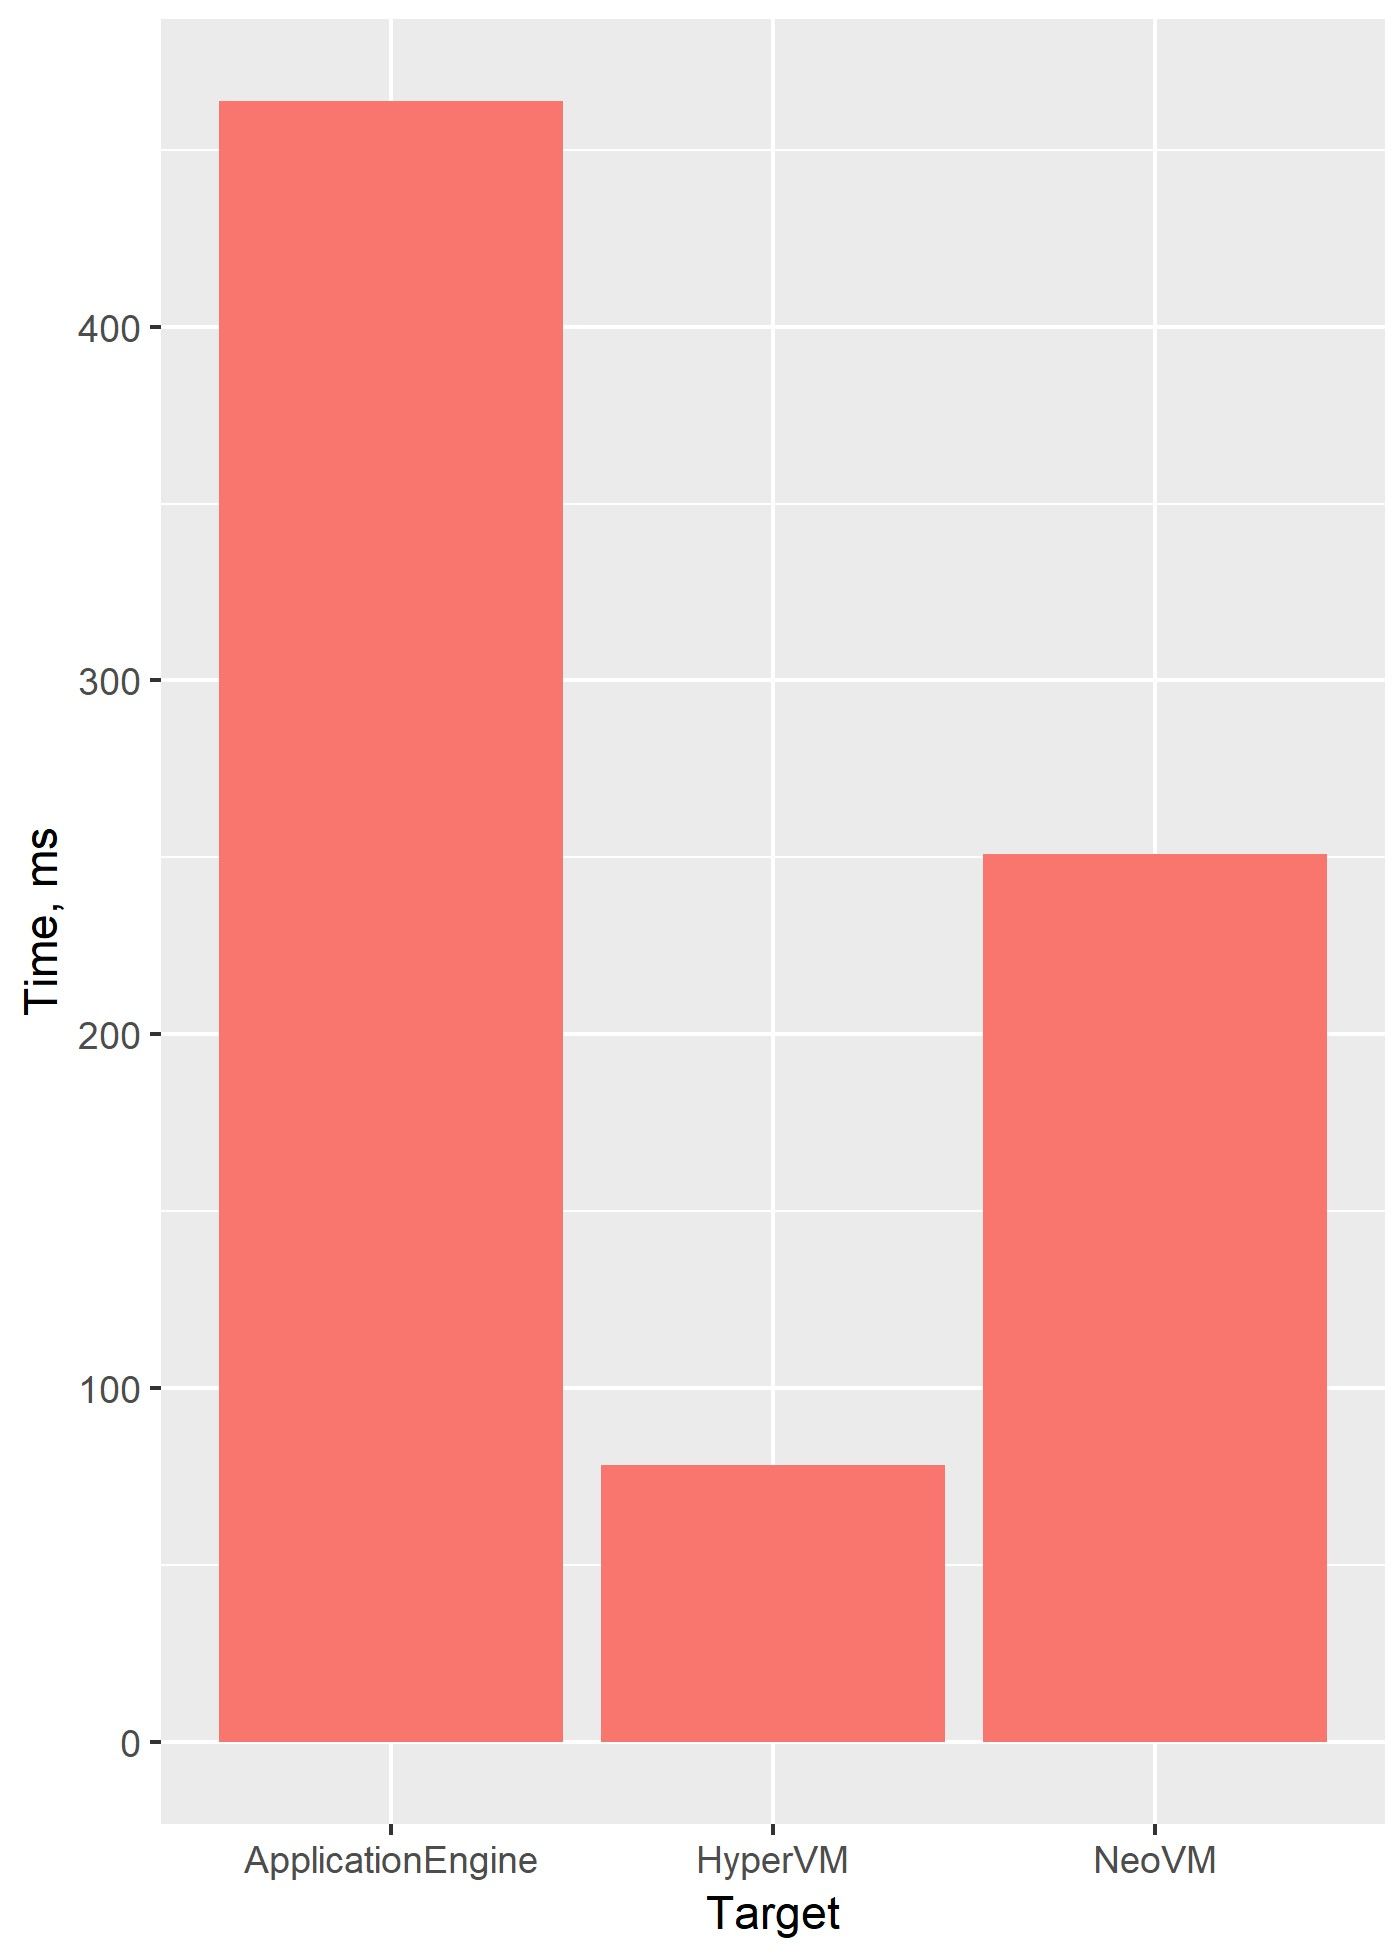
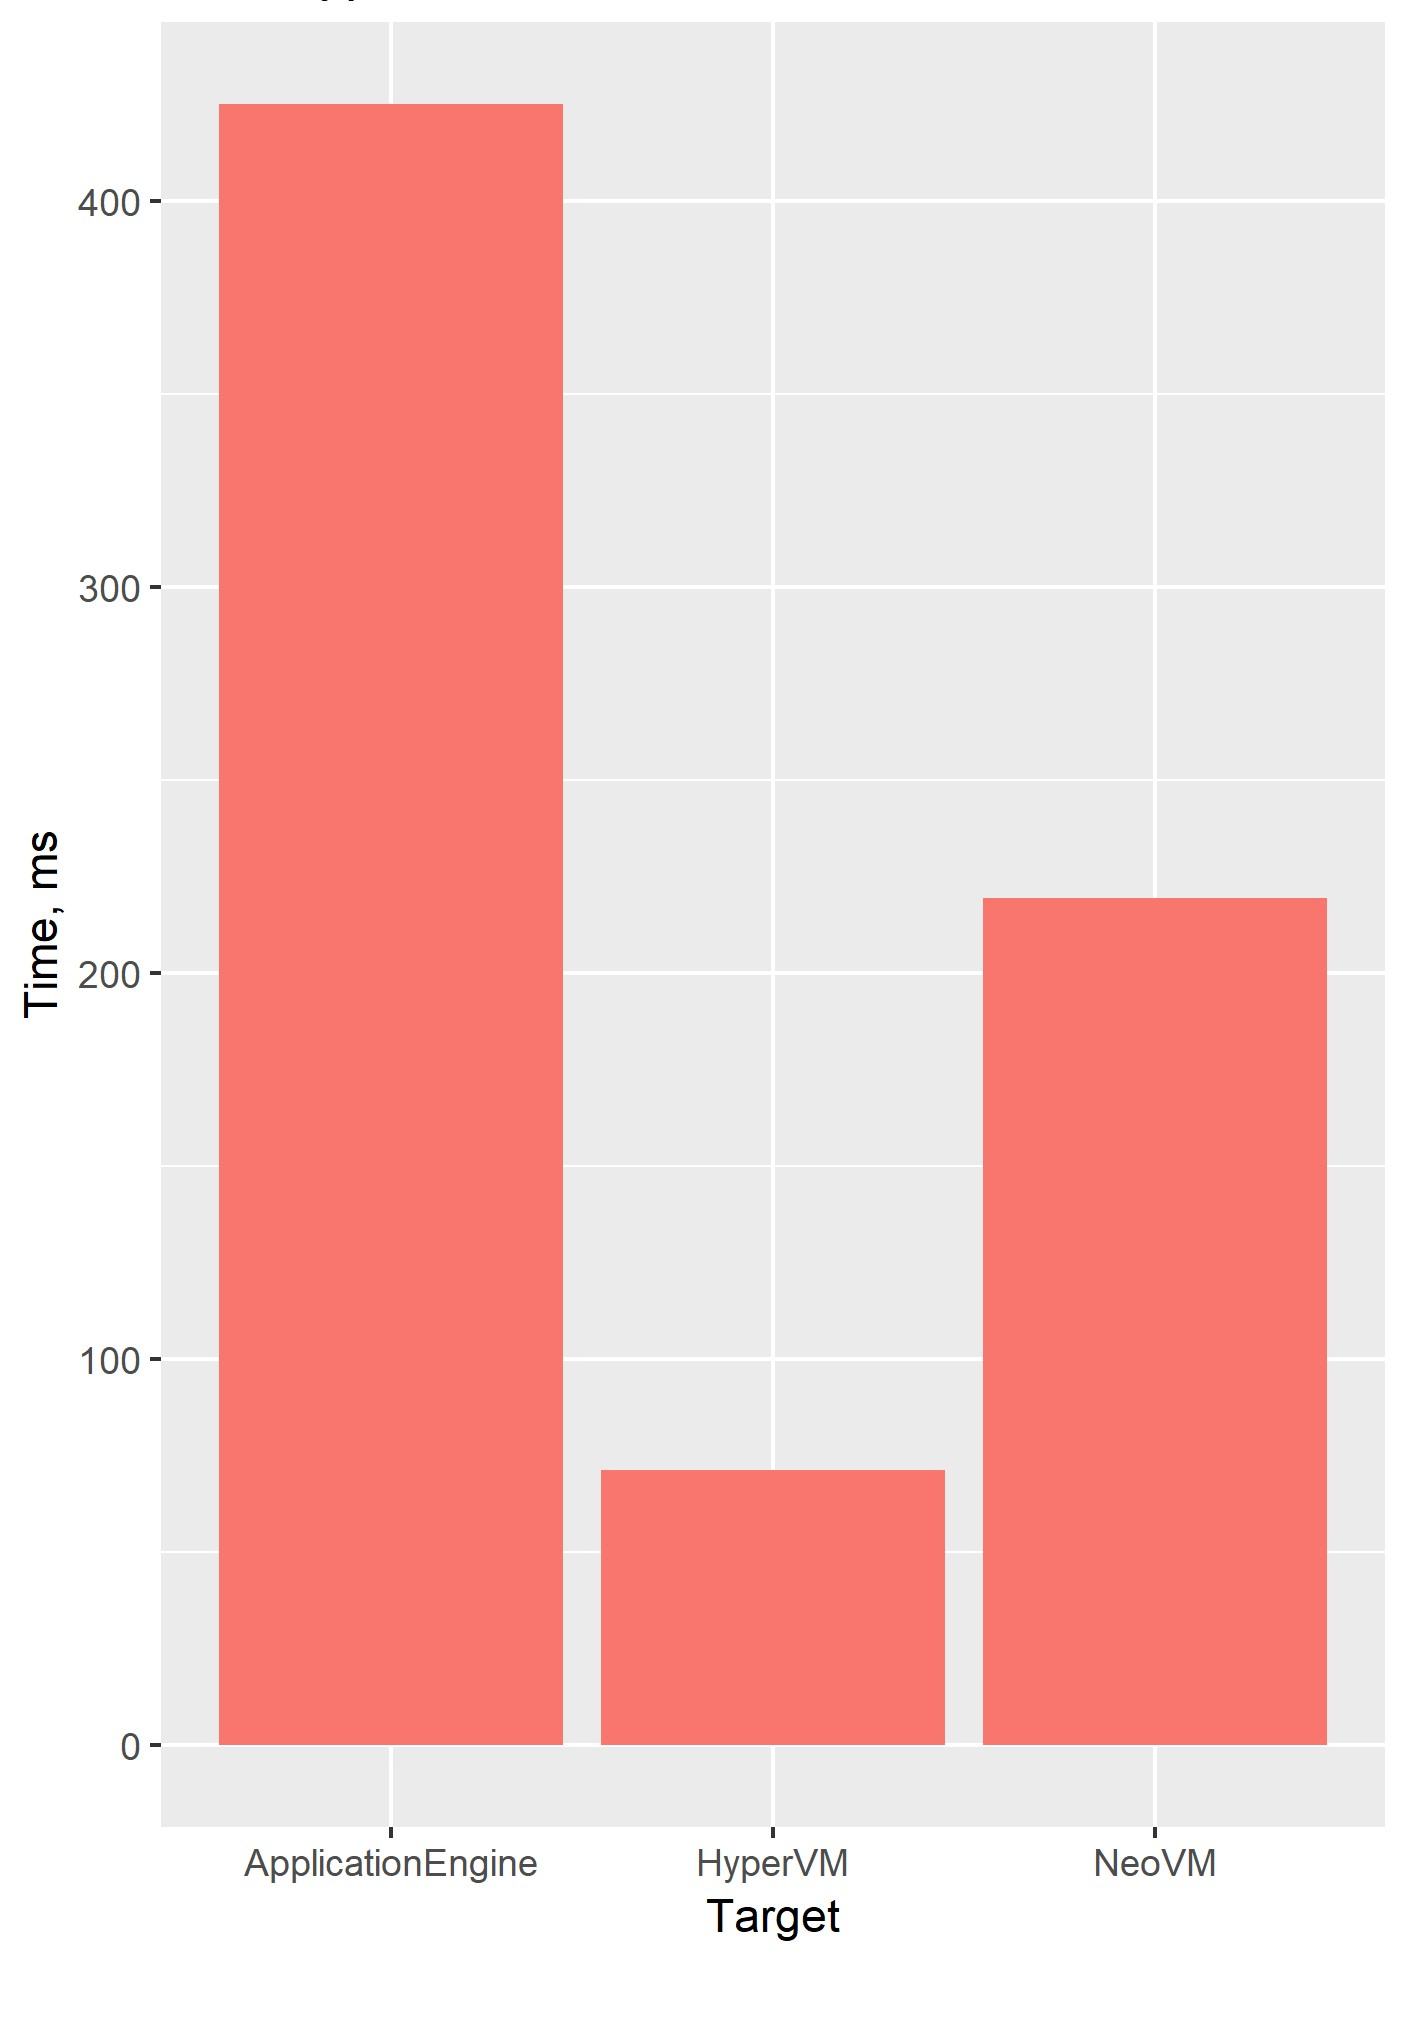
BM

diff --git a/BENCHMARKS.md b/BENCHMARKS.md
@@ -19,9 +19,9 @@ You could get the source [here](https://github.com/CityOfZion/neo-hypervm/blob/d
 </thead>
 <tbody>
 
-<tr><td>HyperVM</td><td>169.0 us</td><td>1.442 us</td><td>1.278 us</td><td>167.0 us</td><td>170.8 us</td><td>168.9 us</td><td>1</td>
-</tr><tr><td>NeoVM</td><td>419.2 us</td><td>3.526 us</td><td>2.944 us</td><td>415.0 us</td><td>423.1 us</td><td>418.8 us</td><td>2</td>
-</tr><tr><td>ApplicationEngine</td><td>926.2 us</td><td>8.375 us</td><td>7.425 us</td><td>912.1 us</td><td>943.7 us</td><td>924.7 us</td><td>3</td>
+<tr><td>HyperVM</td><td>155.0 us</td><td>2.740 us</td><td>2.563 us</td><td>152.0 us</td><td>158.5 us</td><td>156.4 us</td><td>1</td>
+</tr><tr><td>NeoVM</td><td>370.0 us</td><td>4.978 us</td><td>4.656 us</td><td>360.6 us</td><td>375.0 us</td><td>371.5 us</td><td>2</td>
+</tr><tr><td>ApplicationEngine</td><td>835.7 us</td><td>3.422 us</td><td>3.033 us</td><td>832.2 us</td><td>842.4 us</td><td>834.8 us</td><td>3</td>
 </tr>
 
 </tbody></table>
@@ -40,9 +40,9 @@ You could get the source [here](https://github.com/CityOfZion/neo-hypervm/blob/d
 </thead>
 <tbody>
 
-<tr><td>HyperVM</td><td>78.18 ms</td><td>0.7943 ms</td><td>0.6633 ms</td><td>77.46 ms</td><td>79.68 ms</td><td>77.98 ms</td><td>1</td>
-</tr><tr><td>NeoVM</td><td>250.81 ms</td><td>1.7531 ms</td><td>1.6398 ms</td><td>247.62 ms</td><td>253.24 ms</td><td>251.37 ms</td><td>2</td>
-</tr><tr><td>ApplicationEngine</td><td>463.75 ms</td><td>5.4130 ms</td><td>4.7985 ms</td><td>455.83 ms</td><td>472.76 ms</td><td>463.05 ms</td><td>3</td>
+<tr><td>HyperVM</td><td>71.05 ms</td><td>0.2146 ms</td><td>0.2008 ms</td><td>70.64 ms</td><td>71.43 ms</td><td>71.01 ms</td><td>1</td>
+</tr><tr><td>NeoVM</td><td>219.39 ms</td><td>3.2529 ms</td><td>3.0428 ms</td><td>215.43 ms</td><td>223.30 ms</td><td>220.91 ms</td><td>2</td>
+</tr><tr><td>ApplicationEngine</td><td>425.10 ms</td><td>1.4836 ms</td><td>1.3877 ms</td><td>422.33 ms</td><td>426.93 ms</td><td>424.94 ms</td><td>3</td>
 </tr>
 
 </tbody></table>
@@ -61,9 +61,9 @@ You could get the source [here](https://github.com/CityOfZion/neo-hypervm/blob/d
 </thead>
 <tbody>
 
-<tr><td>HyperVM</td><td>16.00 us</td><td>1.1392 us</td><td>3.3590 us</td><td>11.27 us</td><td>26.89 us</td><td>15.69 us</td><td>1</td>
-</tr><tr><td>NeoVM</td><td>93.77 us</td><td>0.9077 us</td><td>0.8491 us</td><td>92.67 us</td><td>95.12 us</td><td>93.71 us</td><td>2</td>
-</tr><tr><td>ApplicationEngine</td><td>174.88 us</td><td>1.7343 us</td><td>1.5374 us</td><td>170.79 us</td><td>177.40 us</td><td>175.12 us</td><td>3</td>
+<tr><td>HyperVM</td><td>8.710 us</td><td>0.1290 us</td><td>0.1207 us</td><td>8.491 us</td><td>8.909 us</td><td>8.674 us</td><td>1</td>
+</tr><tr><td>NeoVM</td><td>76.813 us</td><td>1.4280 us</td><td>1.4025 us</td><td>74.833 us</td><td>78.383 us</td><td>77.630 us</td><td>2</td>
+</tr><tr><td>ApplicationEngine</td><td>154.212 us</td><td>2.3578 us</td><td>2.2054 us</td><td>150.994 us</td><td>156.369 us</td><td>155.476 us</td><td>3</td>
 </tr>
 
 </tbody></table>
@@ -82,9 +82,9 @@ You could get the source [here](https://github.com/CityOfZion/neo-hypervm/blob/d
 </thead>
 <tbody>
 
-<tr><td>HyperVM</td><td>86.60 us</td><td>0.5659 us</td><td>0.4418 us</td><td>85.80 us</td><td>87.33 us</td><td>86.47 us</td><td>1</td>
-</tr><tr><td>NeoVM</td><td>194.28 us</td><td>1.9218 us</td><td>1.5004 us</td><td>191.20 us</td><td>196.11 us</td><td>194.54 us</td><td>2</td>
-</tr><tr><td>ApplicationEngine</td><td>431.37 us</td><td>8.5261 us</td><td>15.3742 us</td><td>399.66 us</td><td>465.16 us</td><td>433.15 us</td><td>3</td>
+<tr><td>HyperVM</td><td>77.03 us</td><td>0.8370 us</td><td>0.7830 us</td><td>74.46 us</td><td>77.87 us</td><td>77.11 us</td><td>1</td>
+</tr><tr><td>NeoVM</td><td>178.27 us</td><td>2.2009 us</td><td>2.0587 us</td><td>172.49 us</td><td>180.58 us</td><td>178.53 us</td><td>2</td>
+</tr><tr><td>ApplicationEngine</td><td>358.92 us</td><td>0.9572 us</td><td>0.8954 us</td><td>357.71 us</td><td>361.06 us</td><td>358.85 us</td><td>3</td>
 </tr>
 
 </tbody></table>
